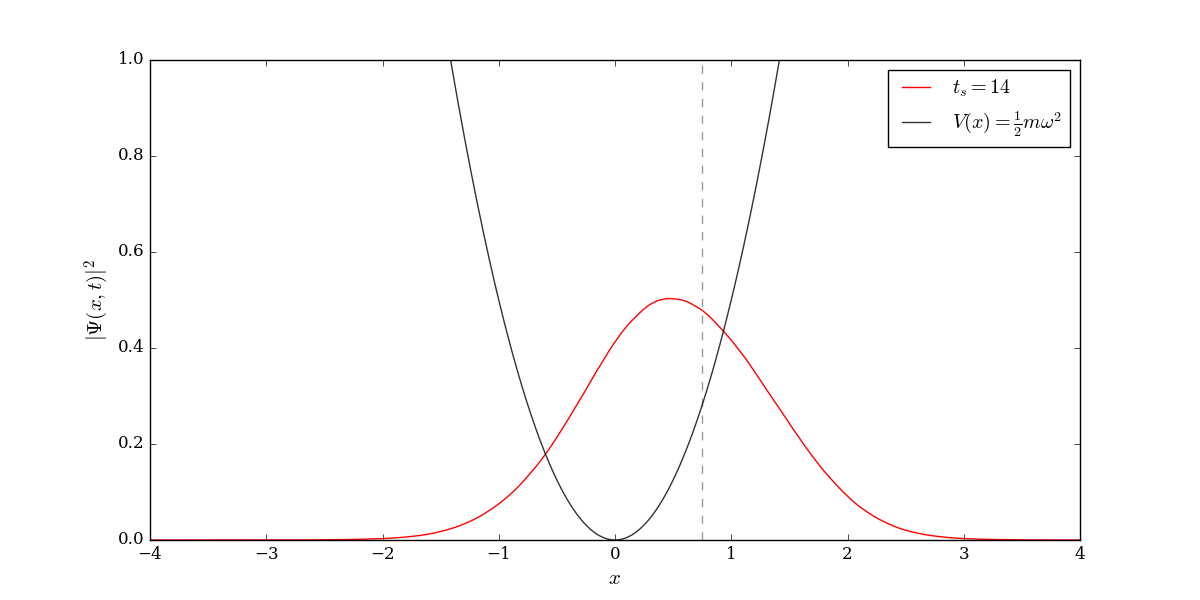
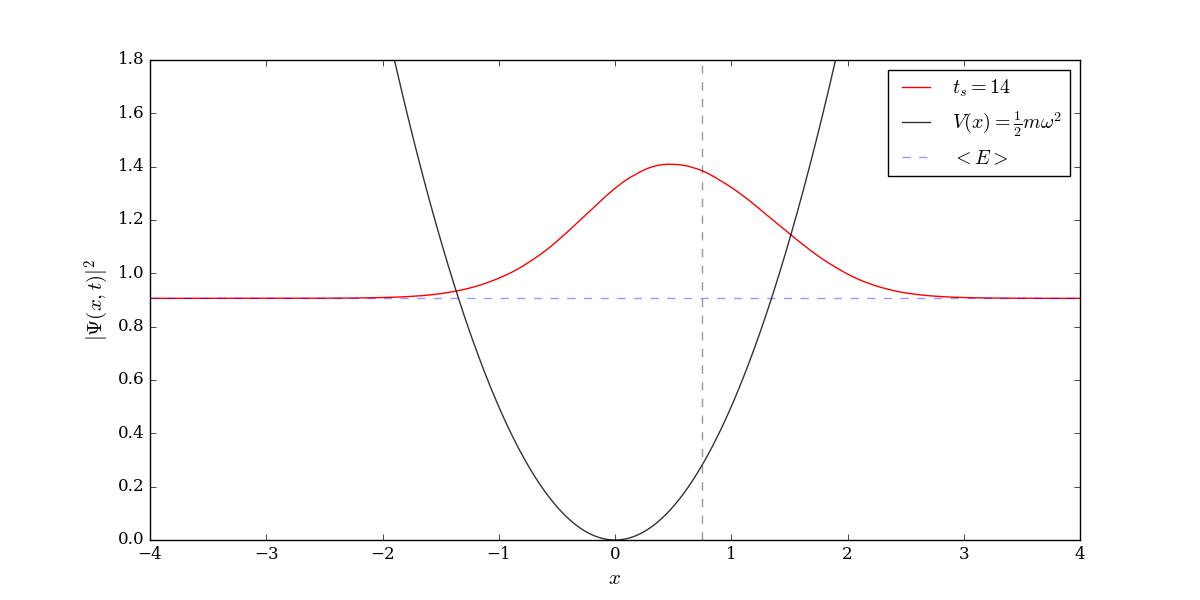
add <E> to plots

diff --git a/plot.py b/plot.py
@@ -68,6 +68,13 @@ if __name__ == '__main__':
 
 	# Plot probability functions 
 
+	avg_eng_array = []
+	with open('expected/avg_eng.dat') as f:
+		for line in f:
+				avg_eng_array.append(float(line))
+
+	avg_eng_val = np.mean(avg_eng_array)
+
 	prob_files = os.listdir('wave_prob/')
 
 	for file in prob_files:
@@ -75,6 +82,7 @@ if __name__ == '__main__':
 		with open('wave_prob/' + file) as f:
 			for line in f:
 				vals.append(float(line))
+		vals = np.array(vals)
 
 		xvals = np.linspace(-4, 4, len(vals))
 
@@ -82,10 +90,11 @@ if __name__ == '__main__':
 		num = fname.split('phi_sq')[1]
 
 		plt.figure(figsize=[12,6])
-		plt.plot(xvals, vals, label=r'$t_{s} = %s$'%(num), color='r')
+		plt.plot(xvals, vals + avg_eng_val, label=r'$t_{s} = %s$'%(num), color='r')
 		plt.plot(xvals, phiInit(xvals), color='k', alpha=.8, label=r'$V(x) = \frac{1}{2}m\omega^{2}$')
+		plt.axhline(y=avg_eng_val, linestyle='--', color='b', alpha=.4, label=r'$<E>$')
 		plt.axvline(x=.75, linestyle='--', color='k', alpha=.4)
-		plt.ylim([0,1])
+		plt.ylim([0,1.8])
 		plt.xlabel(r'$x$', fontsize=15)
 		plt.ylabel(r'$|\Psi(x,t)|^{2}$', fontsize=15)
 		plt.legend(loc='upper right')
